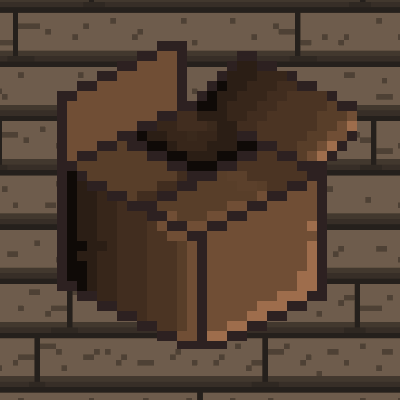
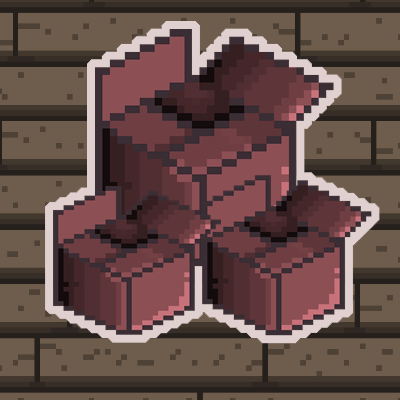
changed images for escape room + started adding wall detection

diff --git a/sketch.js b/sketch.js
@@ -6,7 +6,7 @@
 
 // ---------------- General Game variables --------------------------------//
 
-let state = "rps-start";
+let state = "esc-start";
 let font;
 
 // ------------------ Start Game variables --------------------------------//
@@ -382,6 +382,17 @@ class Sprite {
     else if (keyIsDown(65)) { // left
       this.x -= this.speed;
     }
+    if (playerState === "move") {
+      if (keyIsDown(87)){ //w
+        playerY -= speed;
+        image(spriteBack, playerX, playerY, spriteWidth, spriteHeight);
+        spritePosition = "forward";
+      }
+      else if (keyIsDown(83)){ //s
+        playerY += speed;
+        image(spriteFront, playerX, playerY, spriteWidth, spriteHeight);
+        spritePosition = "back";
+      }
   }
 }
 
@@ -838,6 +849,19 @@ function overBorder() {
   if (playerY > height-cellSize*1.7) {
     playerY = playerY - speed;
   }
+}
+
+function pointInWall(x, y, wall) {
+  return inRange(x, wall.x + gridDimensions) &&
+         inRange(y, wall.y + gridDimensions);
+}
+
+function inRange(coordinate, min, max) {
+  return coordinate >= Math.min(min,max) && Math.max(min, max);
+}
+
+function hitWall() {
+  if (pointInWall(playerX, playerY, grid[i].x, grid[i].y))
 }
 
 ////////////////////////// Character interaction /////////////////////////////////////////
